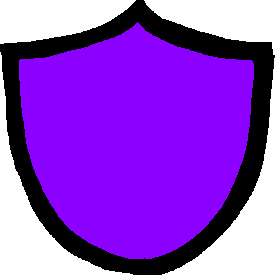
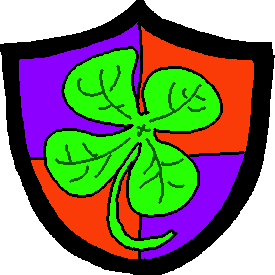
updatedFrontEndChanges

diff --git a/src/Assets/index.js b/src/Assets/index.js
@@ -46,29 +46,39 @@ import ravenswoodS from './kingdoms/ravenswoodS.png';
 import ravenswoodMarker from './kingdoms/ravenswoodMarker.gif';
 import ravenswoodEst from './kingdoms/ravenswoodEst.png';
 
+import southSlopeS from './kingdoms/southSlopeS.png';
+import southSlopeMarker from './kingdoms/southSlopeMarker.gif';
+import southSlopeEst from './kingdoms/southSlopeEst.png';
+
 //default
-import defaultS from './kingdoms/defaultS.png'
-import test from './kingdoms/test.gif'
+import defaultS from './kingdoms/defaultS.png';
+import test from './kingdoms/test.gif';
 import searchResult from './kingdoms/SearchMarker.gif';
 import defaultEst from './kingdoms/castleTower.png';
 
+import sample from './kingdoms/sample.png';
+import sample3 from './kingdoms/sample3.png';
+import sample4 from './kingdoms/sample4.png';
+import sample5 from './kingdoms/sample5.png';
+
 const userClass = {
-    'King': king,
-    'Lord': lord,
-    'Knight': knight,
-    'Shepard': shepard,
+    King: king,
+    Lord: lord,
+    Knight: knight,
+    Shepard: shepard,
     'Stone Mason': blacksmith,
 }
 
 //kingdom shields
 const kingdomMark = {
-    undefinedKingdom: defaultS,
-    'Bedford': bedfordS,
-    'Bushwick': bushwickS,
+    undefinedKingdom: {1: defaultS, 2: sample, 3: sample3, 4: sample4, 5: sample5},
+    Bedford: bedfordS,
+    Bushwick: bushwickS,
     'Financial District': financialDistrictS,
-    'Lynbrook': lynbrookS,
-    'Astoria': ravenswoodS,
-    'Ravenswood': ravenswoodS,
+    Lynbrook: lynbrookS,
+    Astoria: ravenswoodS,
+    Ravenswood: ravenswoodS,
+    'South Slope': southSlopeS
 }
 
 const markersImages = {
@@ -77,7 +87,7 @@ const markersImages = {
     none: test,
     undefinedKingdom: test,
     Lynbrook: financialDistrictMarker,
-    'South Slope': cityHallMarker,
+    'South Slope': southSlopeMarker,
     Bushwick: bushwickMarker,
     Astoria: ravenswoodMarker
 }
@@ -88,7 +98,7 @@ const estCastle = {
     none: defaultEst,
     undefinedKingdom: defaultEst,
     Lynbrook: lynbrookEst,
-    'South Slope': cityHallEst,
+    'South Slope': southSlopeEst,
     Bushwick: bushwickEst,
     Astoria: ravenswoodEst,
     'Financial District': financialDistrictEst

diff --git a/src/components/Markers.js b/src/components/Markers.js
@@ -2,6 +2,7 @@ import React, { Component } from 'react'
 import { connect } from 'react-redux'
 import { Link } from 'react-router-dom'
 import { ravenswoodMarker, test, financialDistrictMarker, cityHallMarker, bushwickMarker, searchResult, blacksmith, knight, markersImages } from '../Assets';
+import { addCheckIn } from '../store';
 
 export class Markers extends Component {
     constructor(props) {
@@ -13,6 +14,7 @@ export class Markers extends Component {
     }
 
     render() {
+        console.log(this.props, 'props within marker')
         const style = { height: '4vh', width: '2.5vw' }
         const searchView = { height: '8vh', width: '5vw' }
 
@@ -44,20 +46,19 @@ export class Markers extends Component {
             </div>
         )
     }
-
-    markerButton() {
-        console.log('helllloooooo')
-        return (
-            <div style={{ position: 'absolute' }}>
-                <h1>HELLOoOOoooo</h1>
-                <img src={blacksmith}> </img>
-            </div>
-        )
-    }
 }
 
-// <Link to={`/profile/establishments/${this.props.establishmentId}`} > <img src={image[allegiance]} className='checkIn' /></Link>
 
-const mapProps = null;
+const mapProps = (state, ownProps) => ({ markers: state.markers, user: state.user, location: state.trackLocation, verifyCheckIn: state.verify, redirect: ownProps.history })
 
-export default connect(mapProps)(Markers)
+const mapDispatch = (dispatch, ownProps) => ({
+    addCheckIn: (user, place) => {
+        dispatch(addCheckIn(user, place, ownProps.history))
+    }
+})
+
+export default connect(mapProps, mapDispatch)(Markers)
+
+// <button onClick={() => {
+//     this.props.addCheckIn(this.props.user.id, this.props.fourSquareId )
+// }} >Check in to {this.props.establishmentName}</button>

diff --git a/src/components/Map.js b/src/components/Map.js
@@ -71,6 +71,7 @@ export class Map extends Component {
                 establishmentName={eachMarker.name}
                 establishmentId={eachMarker.id}
                 allegiance={eachMarker.allegiance}
+                fourSquareId={eachMarker.fourSquareId}
                 type="establishment"
                 select={this.state.select}
                 cb={this.changeView.bind(this)}

diff --git a/src/components/Spotlight.js b/src/components/Spotlight.js
@@ -10,6 +10,7 @@ import distanceCalc from '../functions/distanceCalc'
 import SuccessMenu from './CheckInComplete'
 
 const Spotlight = props => {
+    console.log(props, 'props within spotlight')
 
     if (props.markers.length === 0) { props.redirect.push('/dashboard'); return null }
     else {
